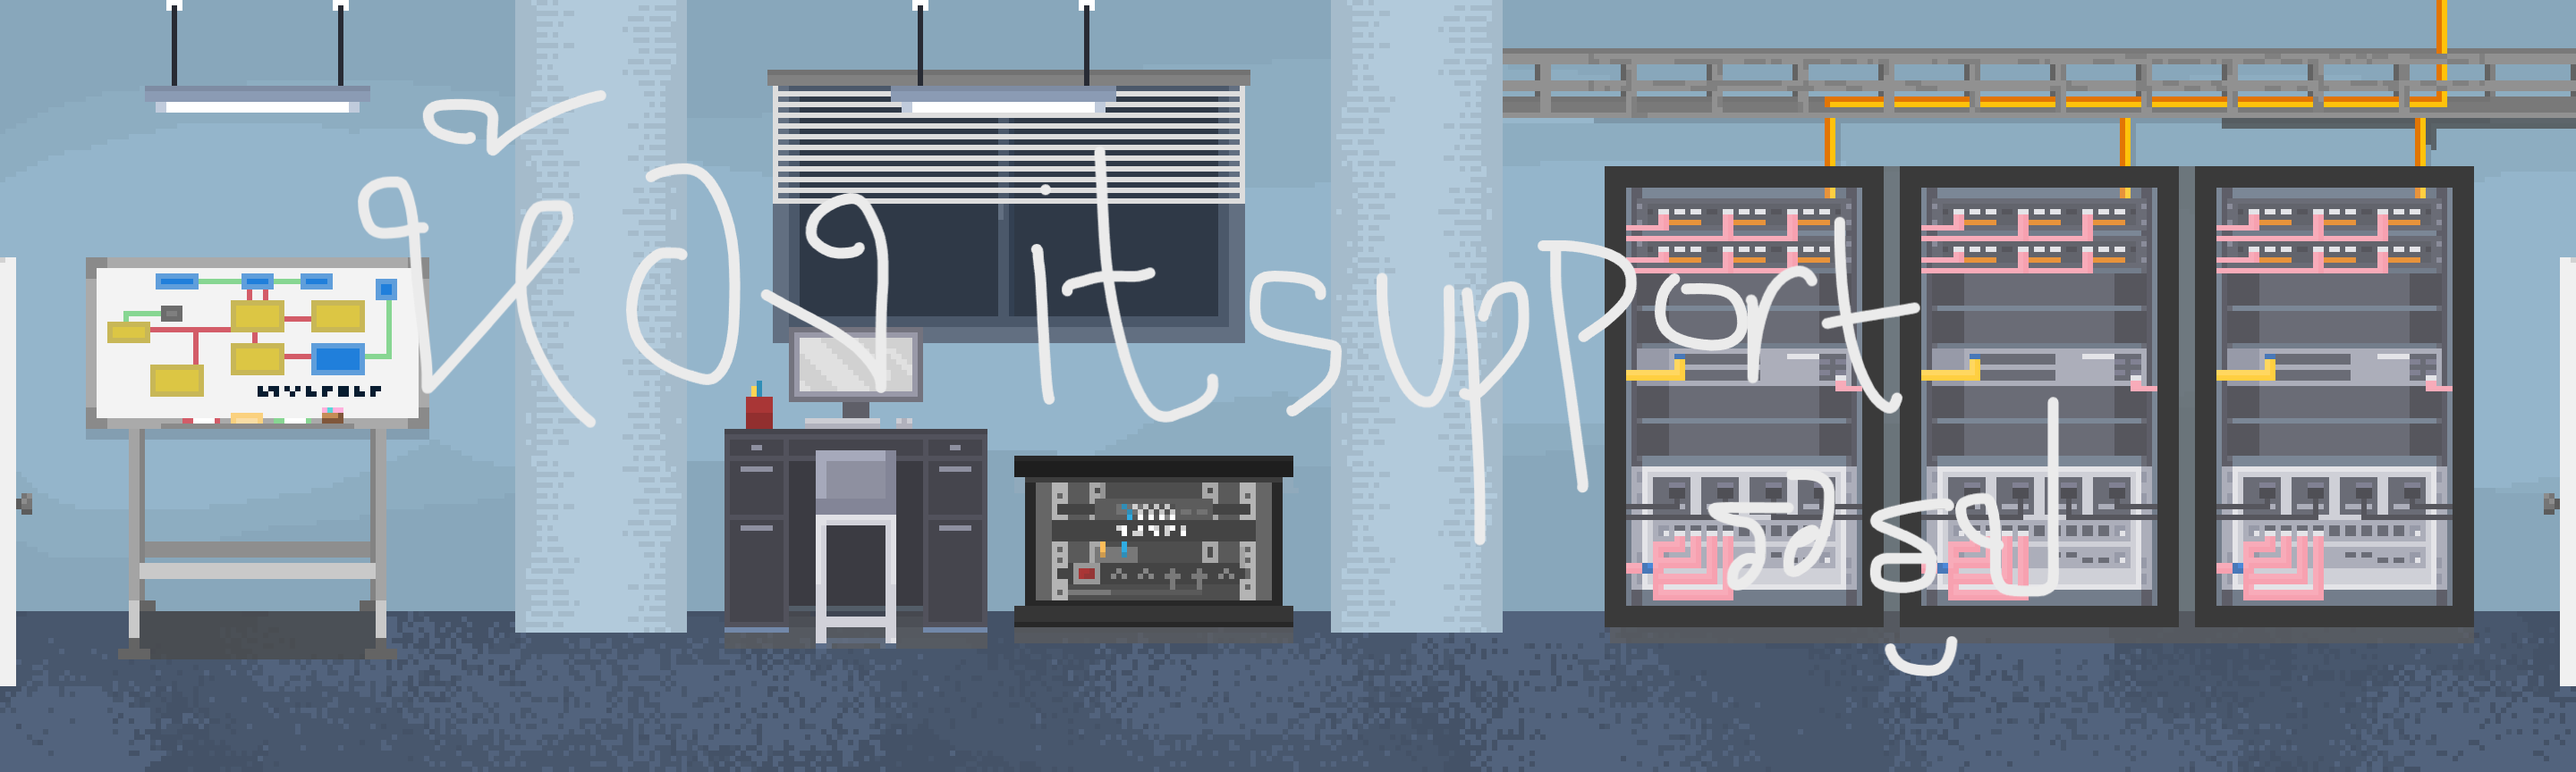
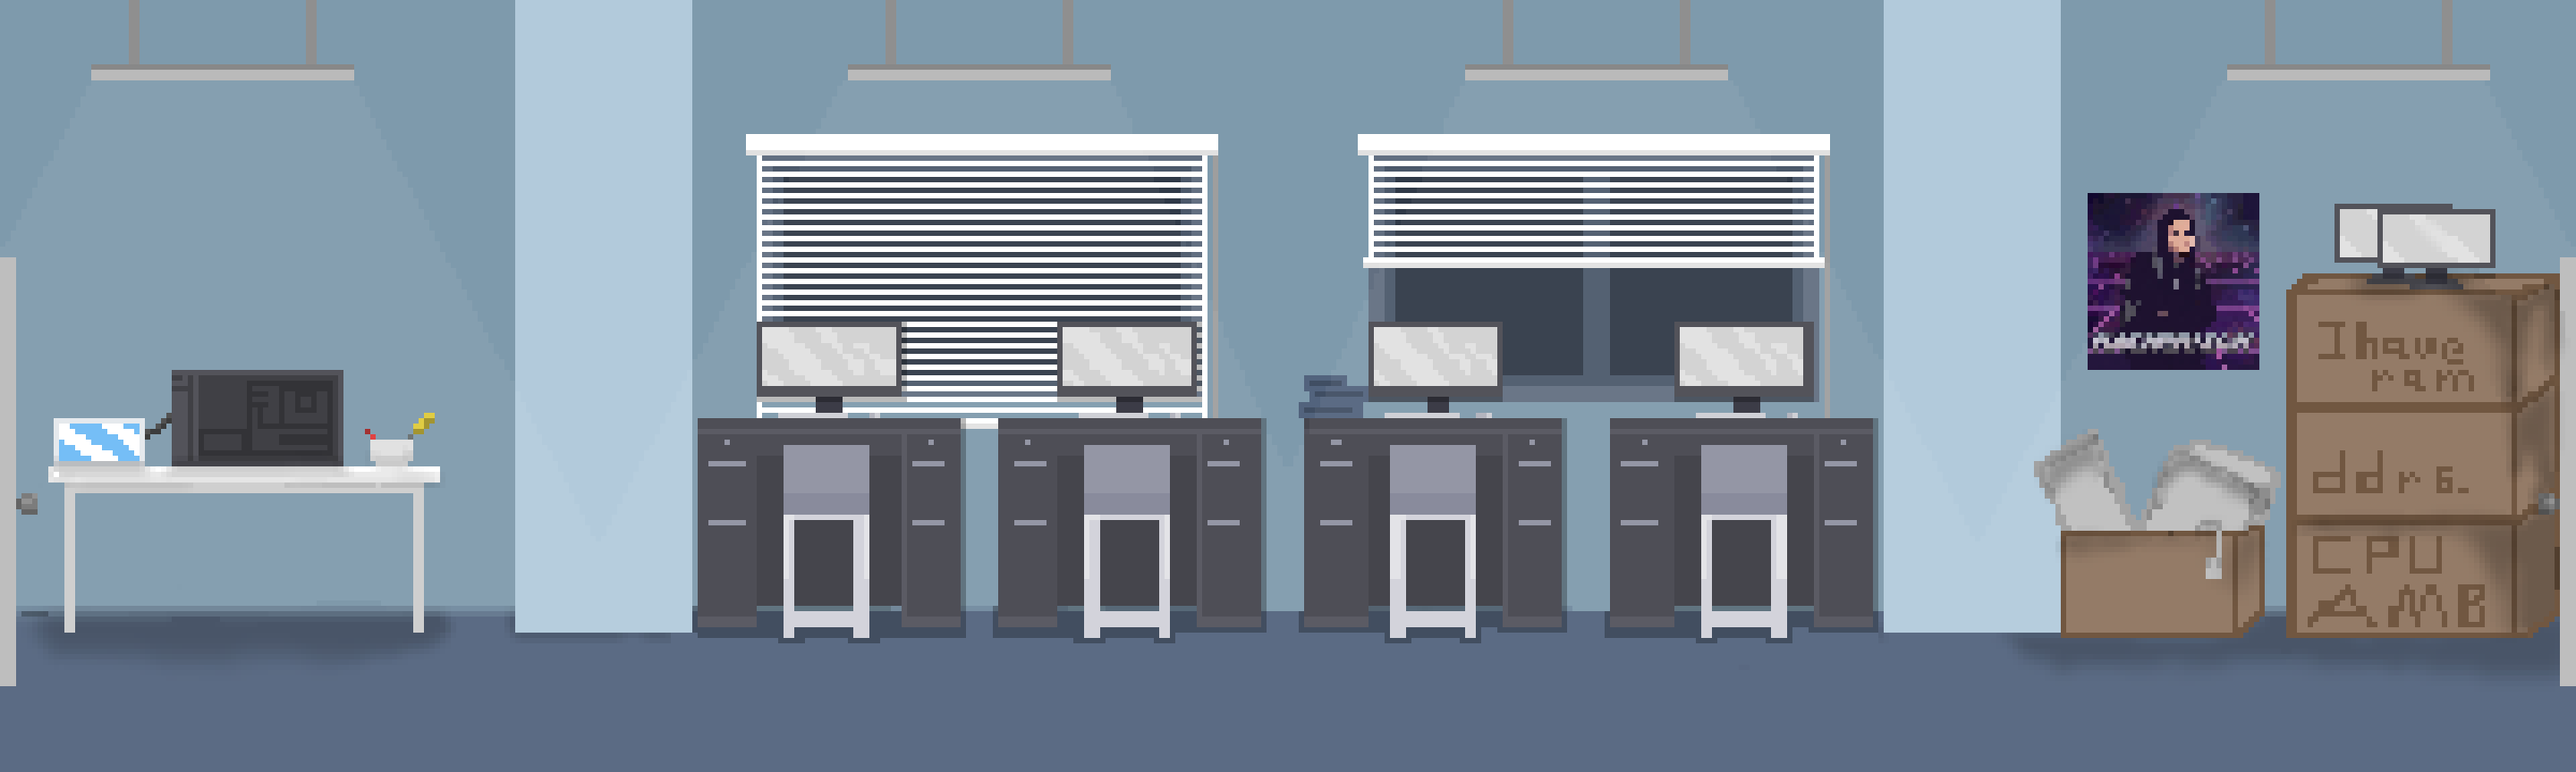
สุ่มตำแหน่ง lan & task text ขวาบน

diff --git a/src/core/GamePanel.java b/src/core/GamePanel.java
@@ -50,6 +50,7 @@ public class GamePanel extends JPanel implements Runnable {
     private Runnable postFadeAction;   // เก็บคำสั่ง "เปลี่ยนชั้น" ไว้ทำตอนจอดำสนิท
 
     private MinigameManager minigameManager;
+
     //ข้อความบอกevent ที่กดได้ (check ใน inputmanager)
     private String hintText = null;
     private boolean showHint = false;
@@ -232,12 +233,11 @@ public class GamePanel extends JPanel implements Runnable {
             dialogBox.draw(g2);
         }
 
+        g2.setFont(FontUtil.THAI);
         //วาดข้อความว่า interact event ได้
         if (showHint && hintText != null) {
             int playerScreenX = player.xDelta - camera.getX() + player.offsetX;
             int playerScreenY = player.yDelta - 20;
-
-            g2.setFont(FontUtil.THAI);
 
             FontMetrics fm = g2.getFontMetrics();
             int w = fm.stringWidth(hintText);
@@ -251,6 +251,10 @@ public class GamePanel extends JPanel implements Runnable {
             g2.setColor(Color.WHITE);
             g2.drawString(hintText, playerScreenX , playerScreenY );
         }
+
+        //task text ขวาบน
+        g2.setColor(Color.WHITE);
+        g2.drawString(minigameManager.taskText, 1400 , 60);
 
         //ทรานซิชั่นถมดำ
         if (fadeAlpha > 0) {

diff --git a/src/core/InputManager.java b/src/core/InputManager.java
@@ -165,7 +165,8 @@ public class InputManager implements KeyListener {
             }
 
             //check ตำแหน่งตู้ server เพื่อทำ task
-            if ((player.xDelta >= 800 && player.xDelta <= 1200) && minigameManager.taskLan) {
+            if ((roomManager.getCurrentRoomName().equals(minigameManager.currentLanLocation[0]))&&(player.xDelta >= Integer.parseInt(minigameManager.currentLanLocation[1])
+                    && player.xDelta <= Integer.parseInt(minigameManager.currentLanLocation[2])) && minigameManager.taskLan) {
                 minigameManager.startTask();
                 return;
             }
@@ -266,7 +267,8 @@ public class InputManager implements KeyListener {
         }
 
         // server
-        if ((player.xDelta >= 800 && player.xDelta <= 1200) && minigameManager.taskLan) {
+        if ((roomManager.getCurrentRoomName().equals(minigameManager.currentLanLocation[0]))&&(player.xDelta >= Integer.parseInt(minigameManager.currentLanLocation[1])
+                && player.xDelta <= Integer.parseInt(minigameManager.currentLanLocation[2])) && minigameManager.taskLan) {
             return "[F] เชื่อมสายแลน";
         }
 

diff --git a/src/network/MinigameLocation.java b/src/network/MinigameLocation.java
@@ -1,0 +1,19 @@
+package network;
+
+import java.util.HashMap;
+import java.util.Map;
+
+public class MinigameLocation {
+    public static Map<String, int[]> lanLocation = new HashMap<>();
+
+    static {
+        lanLocation.put("office", new int[]{74*6, 129*6});
+        lanLocation.put("server", new int[]{190*6, 239*6});
+        lanLocation.put("art", new int[]{800, 1200});
+        lanLocation.put("meeting", new int[]{400, 700});
+    }
+
+    public static int[] get(String room) {
+        return lanLocation.get(room);
+    }
+}

diff --git a/src/network/LanCable.java b/src/network/LanCable.java
@@ -22,7 +22,6 @@ public class LanCable implements Minigame{
 
     private int selected = -1;
 
-
     public LanCable(MinigameManager manager) {
         this.manager = manager;
 
